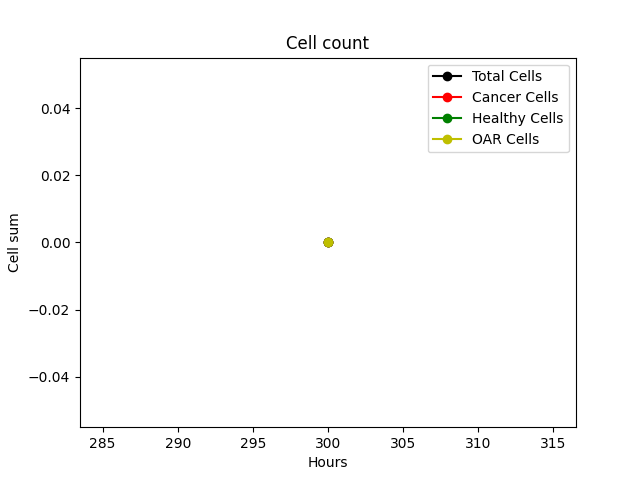
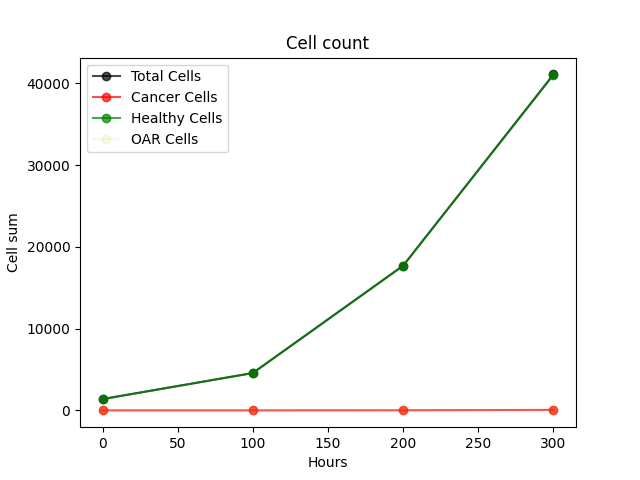
Implementing cell sum graph in graphs.py

diff --git a/model/graphs.py b/model/graphs.py
@@ -6,14 +6,17 @@ import os
 
 
 class Graphs:
-    def __init__(self, grid, type, paths, layers = None):
+    def __init__(self, grid, type, paths, max_tick, layers = None):
 
         self.type = type
         self.grid = grid
-        self.tick_list = [10, 100, 200, 300]
 
         # Lista dei paths di output
         self.paths = paths
+
+        self.divisor = 4
+        self.tick_list = self.spaced_list(4, max_tick)
+        # self.tick_list = [10, 50, 100, 150]
 
         if self.type == "3d":
             # Lista per mantenere traccia delle posizioni dei cubi aggiunti e del colore del voxel
@@ -29,12 +32,9 @@ class Graphs:
             self.oar_sum = 0
 
             self.sum_list = []
-            self.divisor_list = []
-        
-        
-
-
-    def update_plot(self, xsize, ysize, zsize, tick, max_tick = 1):
+            
+            
+    def update_plot(self, xsize, ysize, zsize, tick):
 
         # GRAFICO 3D
         if self.type == "3d":
@@ -112,48 +112,43 @@ class Graphs:
                     plt.close()
 
         if self.type == "sum":
-
-            
             if tick in self.tick_list:
-                # divisor = 4
-                # divisor_list = [i for i in range(divisor, max_tick + 1, divisor)]
 
-                for k in range(zsize):
-                    for i in range(xsize):
-                        for j in range(ysize):
-                            if len(self.grid.cells[k, i, j]) != 0:
+                self.tot_sum = HealthyCell.cell_count + CancerCell.cell_count + OARCell.cell_count
+                self.cancer_sum = CancerCell.cell_count
+                self.healthy_sum = HealthyCell.cell_count
+                self.oar_sum = OARCell.cell_count
 
-                                print("Conto numero cellule")
-                                self.self.grid.cells[k, i, j]
-
-                                #self.tot_sum += len(self.grid.cells[k, i, j])
-                                #for n in range(len(self.grid.cells[k, i, j])):
-                                #    if isinstance(self.grid.cells[k, i, j][n], HealthyCell):
-                                #        self.healthy_sum += 1
-                                #    if isinstance(self.grid.cells[k, i, j][n], CancerCell):
-                                #        self.cancer_sum += 1
-                                #    if isinstance(self.grid.cells[k, i, j][n], OARCell):
-                                #        self.oar_sum += 1
-
-                self.sum_list.append(self.tot_sum)
-                self.sum_list.append(self.healthy_sum)
-                self.sum_list.append(self.cancer_sum)
-                self.sum_list.append(self.oar_sum)
+                self.sum_list.append([self.tot_sum, self.cancer_sum, self.healthy_sum, self.oar_sum])
+                # self.sum_list.append(self.tot_sum)
+                # self.sum_list.append(self.cancer_sum)
+                # self.sum_list.append(self.healthy_sum)
+                # self.sum_list.append(self.oar_sum)
 
         if self.type == None: # VEDI
             print("No graphs generated")
 
-    def sum_plot(self):
+    def sum_plot(self, max_tick=1):
+
+        divisor_list = self.spaced_list(self.divisor, max_tick)
+
+        # Ogni sottolista deve contenere un solo tipo di cellule
+        self.sum_list = np.transpose(self.sum_list)
+        print(self.sum_list)
 
         fig, ax = plt.subplots()
 
-        self.sum_list = np.transpose(self.sum_list)
+        print(len(divisor_list))
+        print(len(self.sum_list))
 
-        # Disegno le somme
-        plt.plot(self.divisor_list, self.sum_list[0], "ko-", label = "Total Cells")
-        plt.plot(self.divisor_list, self.sum_list[1], "ro-", label = "Cancer Cells")
-        plt.plot(self.divisor_list, self.sum_list[2], "go-", label = "Healthy Cells")
-        plt.plot(self.divisor_list, self.sum_list[3], "yo-", label = "OAR Cells")
+        print(divisor_list)
+        print(self.sum_list)
+
+        # Disegno le somme. plt.plot(x, y)
+        plt.plot(divisor_list, self.sum_list[0], "ko-", label="Total Cells", alpha=0.7)
+        plt.plot(divisor_list, self.sum_list[1], "ro-", label="Cancer Cells", alpha=0.7)
+        plt.plot(divisor_list, self.sum_list[2], "go-", label="Healthy Cells", alpha=0.7)
+        plt.plot(divisor_list, self.sum_list[3], "yo-", label="OAR Cells", alpha=0.1)
 
         plt.xlabel('Hours')
         plt.ylabel('Cell sum')
@@ -165,6 +160,10 @@ class Graphs:
         plt.savefig(output_path)
         plt.close()
 
+    def spaced_list(self, divisor, max_tick):
+        step = max_tick / (divisor - 1)
+        new_list = [round(i * step) for i in range(divisor)]
+        return new_list
 
 
 

diff --git a/model/controller3D.py b/model/controller3D.py
@@ -17,7 +17,8 @@ import random
 
 class Controller:
 
-    def __init__(self, hcells, zsize, xsize, ysize, sources, paths, graph_type, layers):
+    def __init__(self, hcells, zsize, xsize, ysize, sources, paths, 
+                 graph_type, max_tick, layers):
         # Inizializza la griglia 3D con le dimensioni zsize, xsize, ysize
         self.grid = Grid(zsize, xsize, ysize, sources)
         self.tick = 0
@@ -57,13 +58,13 @@ class Controller:
 
         # Inizializzo il grafico 3d
         if graph_type == "3d":
-            self.graph3d = Graphs(self.grid, graph_type, self.paths)
+            self.graph3d = Graphs(self.grid, graph_type, self.paths, max_tick)
 
         if graph_type == "2d":
-            self.graph2d = Graphs(self.grid, graph_type, self.paths, layers)
+            self.graph2d = Graphs(self.grid, graph_type, self.paths, max_tick, layers)
 
         if graph_type == "sum":
-            self.sum_graph = Graphs(self.grid, graph_type, self.paths)
+            self.sum_graph = Graphs(self.grid, graph_type, self.paths, max_tick)
         
 
 
@@ -88,9 +89,9 @@ class Controller:
             if self.graph2d != None:
                 self.graph2d.update_plot(self.xsize, self.ysize, self.zsize, self.tick)
             if self.sum_graph != None:
-                self.sum_graph.update_plot(self.xsize, self.ysize, self.zsize, self.tick, steps)
+                self.sum_graph.update_plot(self.xsize, self.ysize, self.zsize, self.tick)
                 if self.tick == steps:
-                    self.sum_graph.sum_plot()
+                    self.sum_graph.sum_plot(steps)
 
 
     def irradiate(self, dose):

diff --git a/main.py b/main.py
@@ -1,6 +1,7 @@
 import os
 import random
 
+from model.cell_pack.cell import HealthyCell, CancerCell, OARCell
 from model.controller3D import Controller
 
 
@@ -19,13 +20,23 @@ for path in paths:
 
 
 layers = [25]
+num_ore = 150
 
 env_dimension = 50
 random.seed(4775)
 controller = Controller(1000, env_dimension, env_dimension, env_dimension , 100,
-                        paths, "sum", layers)
+                        paths, "sum", num_ore, layers)
 
-controller.go(300) # Simulazione di 300 ore
+
+controller.go(num_ore) # Simulazione di 300 ore
+
+
+
+
+
+
+
+
 
 
 
